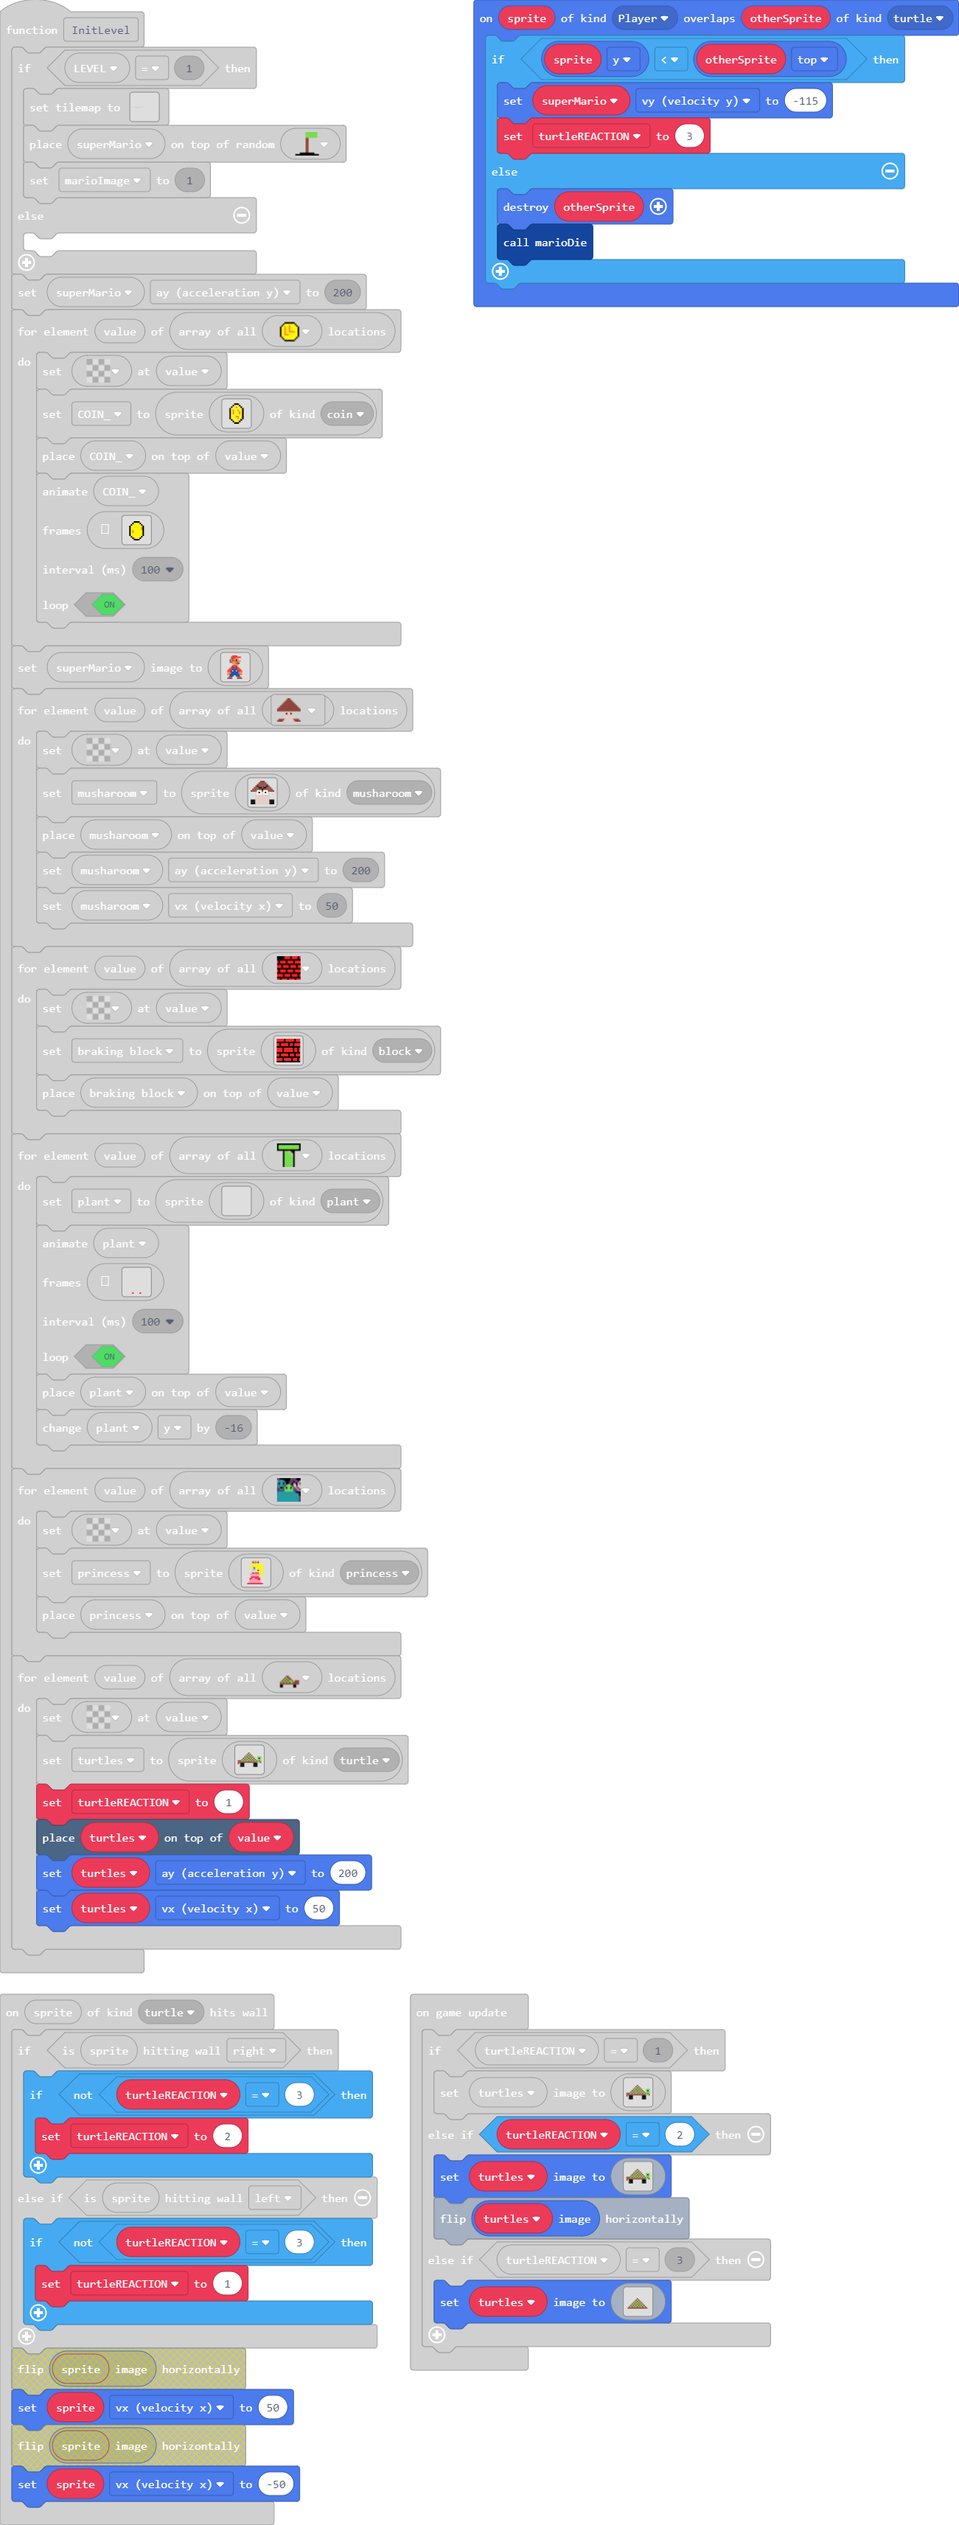
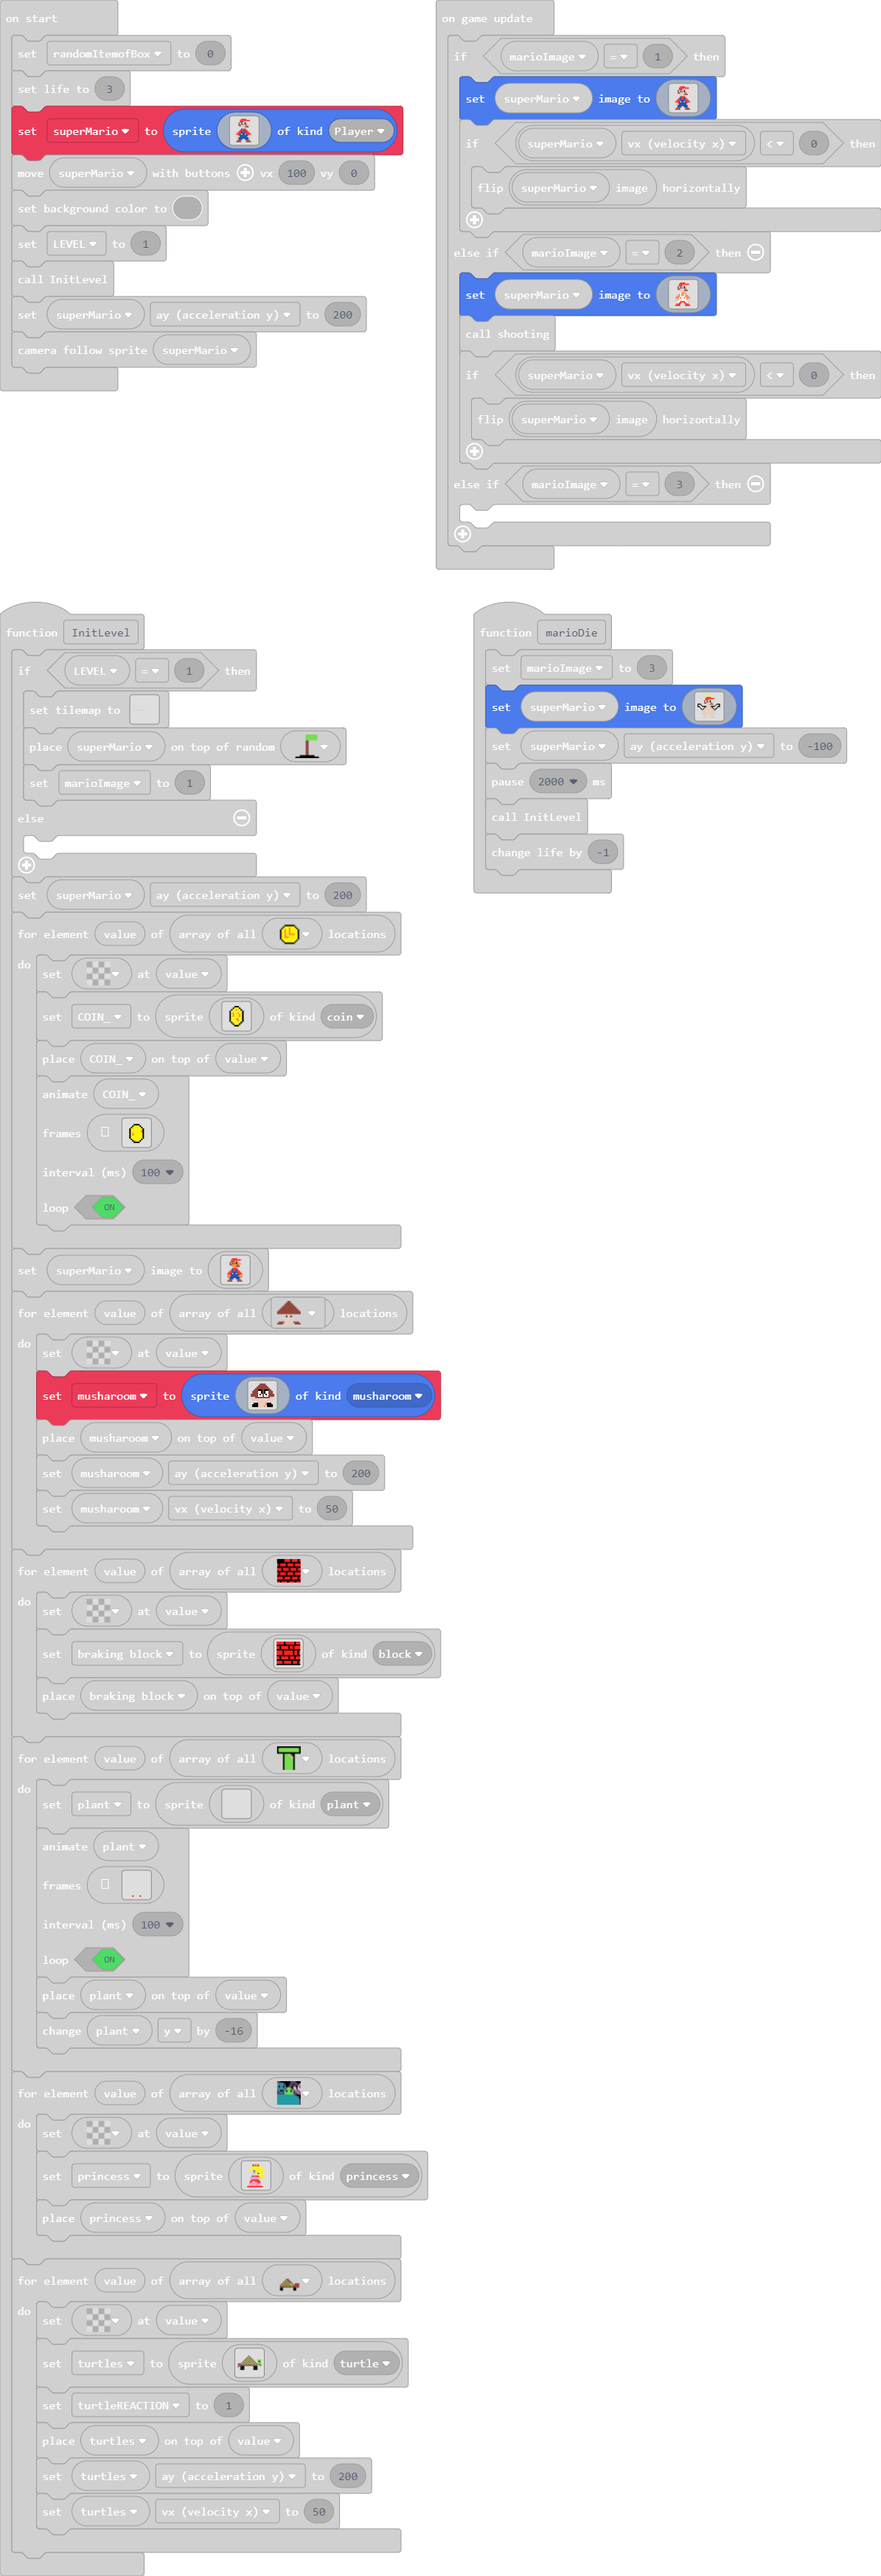
Update main.blocks, main.ts

diff --git a/main.ts b/main.ts
@@ -240,20 +240,20 @@ function marioDie () {
 . . . . . . . 5 . 5 . 5 . . . . . . . . 
 . . . . . . . . 2 2 2 2 . . . . . . . . 
 . . . . . . . 2 2 2 2 2 2 2 2 . . . . . 
-. . . . . . . e e e 4 4 4 . . . . . . . 
-. . . . . . e 4 e 4 4 f 4 . . . . . . . 
-. . . . . . e 4 e e 4 f 4 4 4 . . . . . 
-. . . . . . e e 4 4 4 4 e 4 . . . . . . 
-f f f . . . . . 4 4 4 e e e . . . f f f 
-f 1 1 f . . . . . 4 4 4 4 . . . f 1 1 f 
+. . . . . . . e e e d d d . . . . . . . 
+. . . . . . e d e d d f d . . . . . . . 
+. . . . . . e d e e d f d d d . . . . . 
+. . . . . . e e d d d d e d . . . . . . 
+f f f . . . . . d d d e e e . . . f f f 
+f 1 1 f . . . . . d d d d . . . f 1 1 f 
 f f 1 1 f f f f d d d d f f f f 1 1 f f 
 . . f 1 1 1 f d d d d d d f 1 1 1 f . . 
 . . . f 1 f d d d d d d d d f 1 f . . . 
 . . . . f d d d d d d d d d d f . . . . 
 . . . . d d d d 5 d d 5 d d d d . . . . 
-. . . . 4 4 d d d d d d d d 4 4 . . . . 
-. . . . 4 4 4 d d d d d d 4 4 4 . . . . 
-. . . . 4 4 d d d d d d d d 4 4 . . . . 
+. . . . d d d d d d d d d d d d . . . . 
+. . . . d d d d d d d d d d d d . . . . 
+. . . . d d d d d d d d d d d d . . . . 
 . . . . . . d d d . . d d d . . . . . . 
 . . . . . d d d . . . . d d d . . . . . 
 . . . . d d d d . . . . d d d d . . . . 
@@ -570,21 +570,22 @@ e e e e . . . . e e e e
     for (let value of tiles.getTilesByType(myTiles.tile4)) {
         tiles.setTileAt(value, myTiles.tile0)
         musharoom = sprites.create(img`
-. . . . . . e e e . . . . . . 
-. . . . . e e e e e . . . . . 
-. . . . e e e e e e e . . . . 
-. . . e f e e e e e f e . . . 
-. . e e e f f e f f e e e . . 
-. e e e e e e f e e e e e e . 
-e e e e 1 1 1 e 1 1 1 e e e e 
-. . . d 1 f 1 d 1 f 1 d . . . 
-. . . d 1 1 1 d 1 1 1 d . . . 
-. . . d d d d d d d d d . . . 
-. . . d d d d d d d d d . . . 
-. . . d d d d d d d d d . . . 
-f f f d d d d d d d d d f f f 
-f f f d d d d d d d d d f f f 
-f f f d d d d d d d d d f f f 
+. . . . . . e e e e . . . . . . 
+. . . . . e e e e e e . . . . . 
+. . . . e e e e e e e e . . . . 
+. . . e e e e e e e e e e . . . 
+. . e e e f f f e f f f e e . . 
+. e e e e 1 1 f e f 1 1 e e e . 
+. e e e e 1 1 f e f 1 1 e e e . 
+e e e e e 1 f 1 e 1 f 1 e e e e 
+e e e e e 1 1 1 e 1 1 1 e e e e 
+d d d e e e e e e e e e e d d d 
+d d d d d d d d d d d d d d d d 
+. d d d d d d d d d d d d d d . 
+. . . . d d d d d d d d . . . . 
+. . f f f d d d d d 4 f f f . . 
+. f f f f d d d d d 4 f f f f . 
+. f f f f d d d d 4 1 f f f f . 
 `, SpriteKind.musharoom)
         tiles.placeOnTile(musharoom, value)
         musharoom.ay = 200
@@ -1533,20 +1534,20 @@ info.setLife(3)
 superMario = sprites.create(img`
 . . . . 2 2 2 2 . . . . 
 . . . 2 2 2 2 2 2 2 2 . 
-. . . e e e 4 4 4 . . . 
-. . e 4 e 4 4 f 4 . . . 
-. . e 4 e e 4 f 4 4 4 . 
-. . e e 4 4 4 4 e 4 . . 
-. . . . 4 4 4 e e e . . 
-. . . . . 4 4 4 4 . . . 
+. . . e e e d d d . . . 
+. . e d e d d f d . . . 
+. . e d e e d f d d d . 
+. . e e d d d d e d . . 
+. . . . d d d e e e . . 
+. . . . . d d d d . . . 
 . . . . 8 2 2 2 . . . . 
 . . . 2 8 2 2 8 2 . . . 
 . . 2 2 8 2 2 8 2 2 . . 
 . 2 2 2 8 8 8 8 2 2 2 . 
 2 2 2 8 5 8 8 5 8 2 2 2 
-4 4 2 8 8 8 8 8 8 2 4 4 
-4 4 4 8 8 8 8 8 8 4 4 4 
-4 4 8 8 8 8 8 8 8 8 4 4 
+d d 2 8 8 8 8 8 8 2 d d 
+d d d 8 8 8 8 8 8 d d d 
+d d 8 8 8 8 8 8 8 8 d d 
 . . 8 8 8 . . 8 8 8 . . 
 . e e e . . . . e e e . 
 e e e e . . . . e e e e 
@@ -1562,20 +1563,20 @@ game.onUpdate(function () {
         superMario.setImage(img`
 . . . . 2 2 2 2 . . . . 
 . . . 2 2 2 2 2 2 2 2 . 
-. . . e e e 4 4 4 . . . 
-. . e 4 e 4 4 f 4 . . . 
-. . e 4 e e 4 f 4 4 4 . 
-. . e e 4 4 4 4 e 4 . . 
-. . . . 4 4 4 e e e . . 
-. . . . . 4 4 4 4 . . . 
+. . . e e e d d d . . . 
+. . e d e d d f d . . . 
+. . e d e e d f d d d . 
+. . e e d d d d e d . . 
+. . . . d d d e e e . . 
+. . . . . d d d d . . . 
 . . . . 8 2 2 2 . . . . 
 . . . 2 8 2 2 8 2 . . . 
 . . 2 2 8 2 2 8 2 2 . . 
 . 2 2 2 8 8 8 8 2 2 2 . 
 2 2 2 8 5 8 8 5 8 2 2 2 
-4 4 2 8 8 8 8 8 8 2 4 4 
-4 4 4 8 8 8 8 8 8 4 4 4 
-4 4 8 8 8 8 8 8 8 8 4 4 
+d d 2 8 8 8 8 8 8 2 d d 
+d d d 8 8 8 8 8 8 d d d 
+d d 8 8 8 8 8 8 8 8 d d 
 . . 8 8 8 . . 8 8 8 . . 
 . e e e . . . . e e e . 
 e e e e . . . . e e e e 
@@ -1587,20 +1588,20 @@ e e e e . . . . e e e e
         superMario.setImage(img`
 . . . . 2 2 2 2 . . . . 
 . . . 2 2 2 2 2 2 2 2 . 
-. . . e e e 4 4 4 . . . 
-. . e 4 e 4 4 f 4 . . . 
-. . e 4 e e 4 f 4 4 4 . 
-. . e e 4 4 4 4 e 4 . . 
-. . . . 4 4 4 e e e . . 
-. . . . . 4 4 4 4 . . . 
-. . . . 1 d d d . . . . 
-. . . d 1 d d 1 d . . . 
-. . d d 1 d d 1 d d . . 
-. d d d 1 1 1 1 d d d . 
-d d d 1 2 1 1 2 1 d d d 
-4 4 d 1 1 1 1 1 1 d 4 4 
-4 4 4 1 1 1 1 1 1 4 4 4 
-4 4 1 1 2 2 2 2 1 1 4 4 
+. . . e e e d d d . . . 
+. . e d e d d f d . . . 
+. . e d e e d f d d d . 
+. . e e d d d d e d . . 
+. . . . d d d e e e . . 
+. . . . . d d d d . . . 
+. . . . 1 4 4 4 . . . . 
+. . . 4 1 4 4 1 4 . . . 
+. . 4 4 1 4 4 1 4 4 . . 
+. 4 4 4 1 1 1 1 4 4 4 . 
+4 4 4 1 2 1 1 2 1 4 4 4 
+d d 4 1 1 1 1 1 1 4 d d 
+d d d 1 1 1 1 1 1 d d d 
+d d 1 1 2 2 2 2 1 1 d d 
 . . 1 2 2 . . 2 2 1 . . 
 . 2 2 2 . . . . 2 2 2 . 
 2 2 2 2 . . . . 2 2 2 2 
